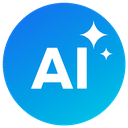
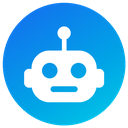
design(tabs): the raised AI button shows a white robot head, no text

Changed region(s): [[0.1875, 0.1875, 0.8438, 0.8125], [0.625, 0.1562, 0.8438, 0.375], [0.7812, 0.375, 0.875, 0.4688]]

diff --git a/DESIGN.md b/DESIGN.md
@@ -45,7 +45,7 @@ iOS (flags on) is a glass-on-colour system.
 - **Cards** are frosted panes, not real glass (a native glass view per list row is too heavy): `glassFill` + `glassLine`, a short bright
   top sheen, no shadow (a shadow would show through the translucent fill). Card-shaped surfaces that are not `<Card>` (rows, panels,
   inputs) use the same two tokens; `surface` stays for opaque things (thumbs, sheets' content). Do not nest cards.
-- The tab bar is the system `NativeTabs` bar; the app's theme is handed to iOS (`Appearance.setColorScheme`) so it matches. The AI tab is a raised button: its slot in the system bar is an empty image, and `AiRaisedButton` stands in it — a brand-gradient disc with a white "AI" mark with two sparks (`assets/tabs/ai-orb*.png`) rising above the bar with no caption and a soft ring that breathes out every few seconds (off with Reduce Motion). The AI tab is always the middle slot (an empty disabled `gap` slot beside it when the tab count is even), so the button is centred on the screen; its height constants are at the top of the file. Glows, aurora and glass spheres were tried and dropped as too flashy for the calm, exact tone.
+- The tab bar is the system `NativeTabs` bar; the app's theme is handed to iOS (`Appearance.setColorScheme`) so it matches. The AI tab is a raised button: its slot in the system bar is an empty image, and `AiRaisedButton` stands in it — a brand-gradient disc with a white robot head (no text) (`assets/tabs/ai-orb*.png`) rising above the bar with no caption and a soft ring that breathes out every few seconds (off with Reduce Motion). The AI tab is always the middle slot (an empty disabled `gap` slot beside it when the tab count is even), so the button is centred on the screen; its height constants are at the top of the file. Glows, aurora and glass spheres were tried and dropped as too flashy for the calm, exact tone.
 
 ## Materials (Android — Material 3 Expressive)
 
